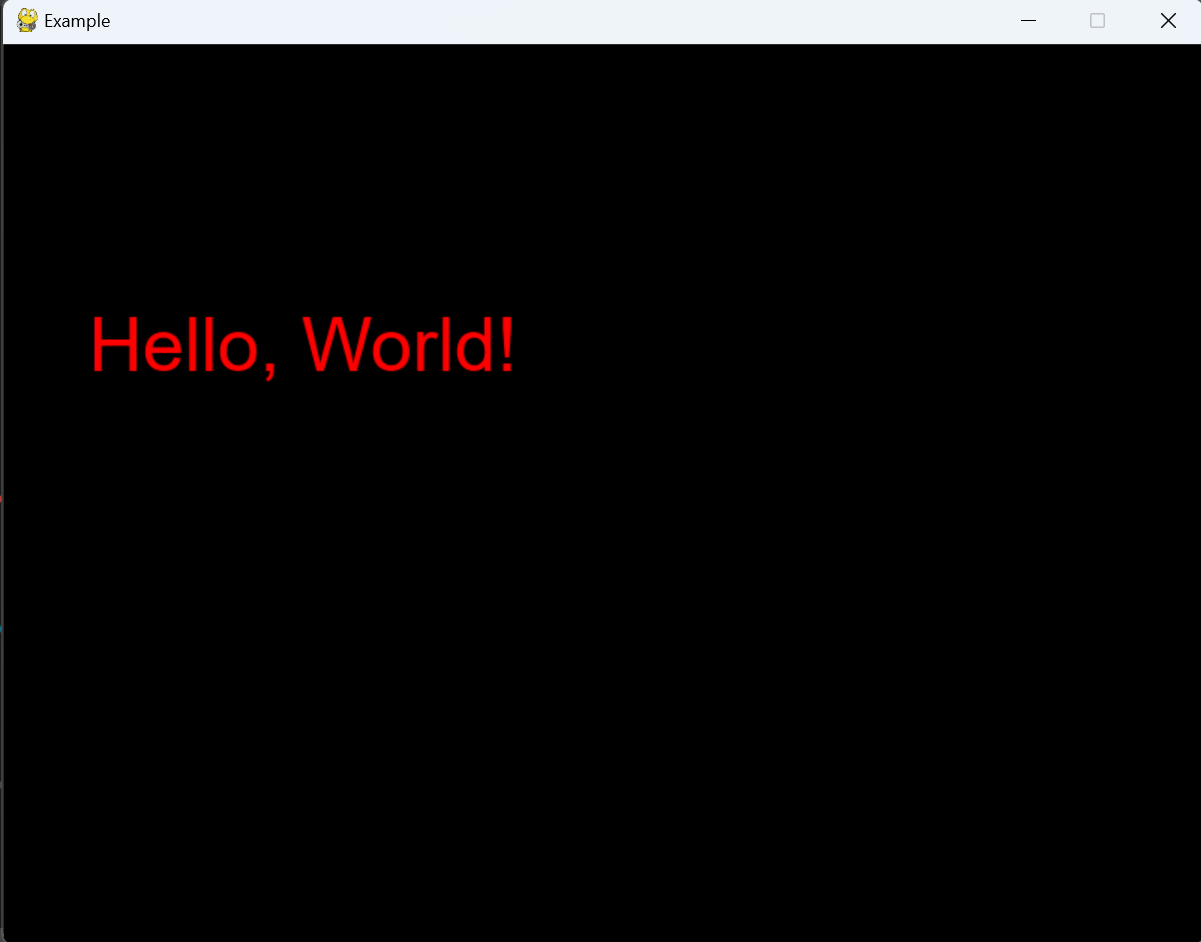
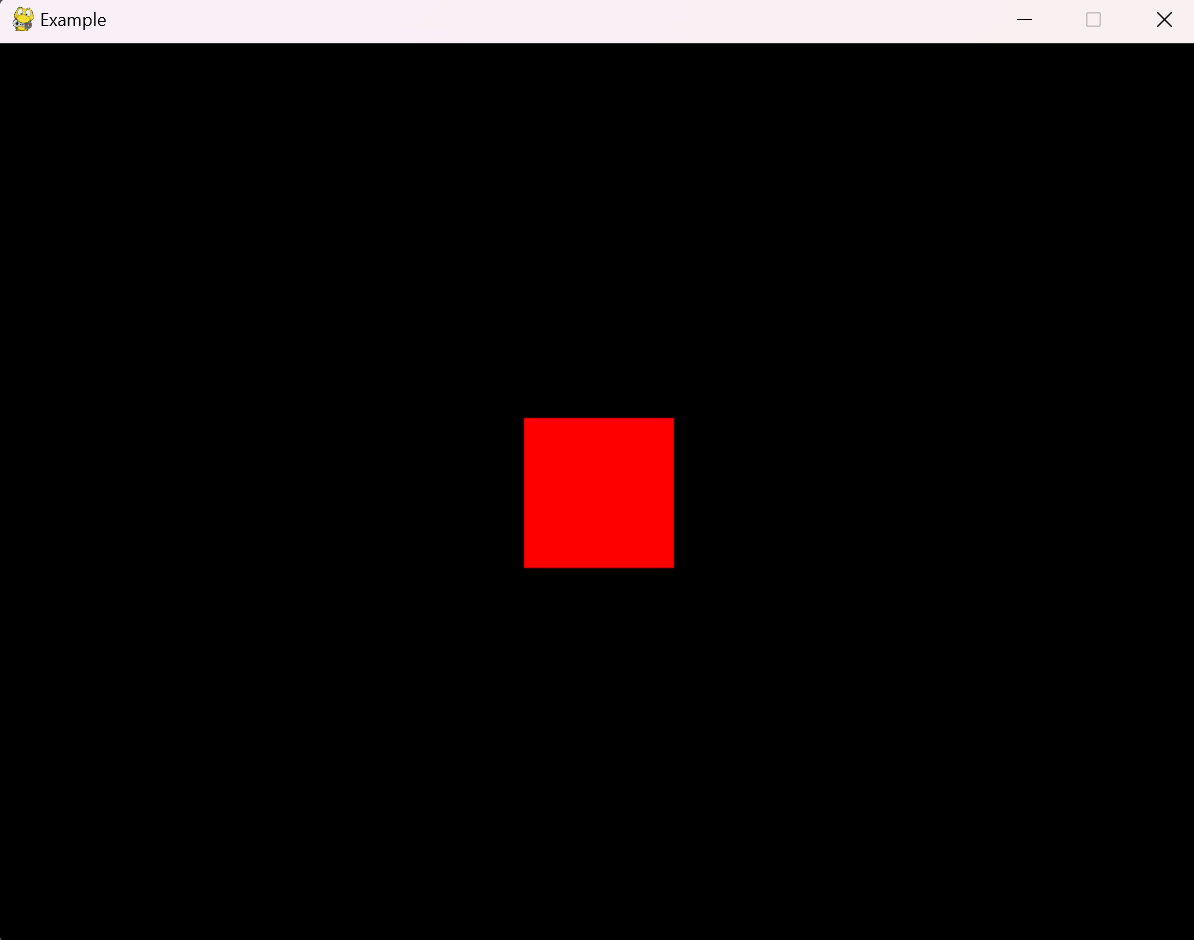
misc: README update

diff --git a/README.md b/README.md
@@ -10,19 +10,24 @@ Pygame Tools Tafh is an advanced game engine built upon pygame. Includes such th
 # main.py
 import asyncio
 from pygame_tools_tafh import *
+from pygame_tools_tafh.vmath import *
+    
+class GameScene(Scene):
 
-class Scene:
+    def load(self, data):
+        obj = GameObject("obj")
+        obj.add_component(RectShapeComponent((255, 0, 0), Vector2d(100, 100)))
 
-    def load(self):
-        label = GameObject("label")
-        label.add_component(LabelComponent("Hello, World!", (255, 0, 0)))
-        label.transform.position = Vector2d(400, 300)
+        obj2 = GameObject("obj2")
+        obj2.add_component(SpriteComponent("image.png", (100, 200)))
+        obj2.transform.position = Vector2d(100, 100)
 
-engine = Engine("Glorytopia", 60, (800, 600))
+
+engine = Engine("Example", 60, (800, 600))
 
 def main():
-    asyncio.run(engine.run(Scene()))
-    
+    engine.register(GameScene("example"))
+    asyncio.run(engine.load_scene("example", None))
 
 if __name__ == "__main__":
     main()
